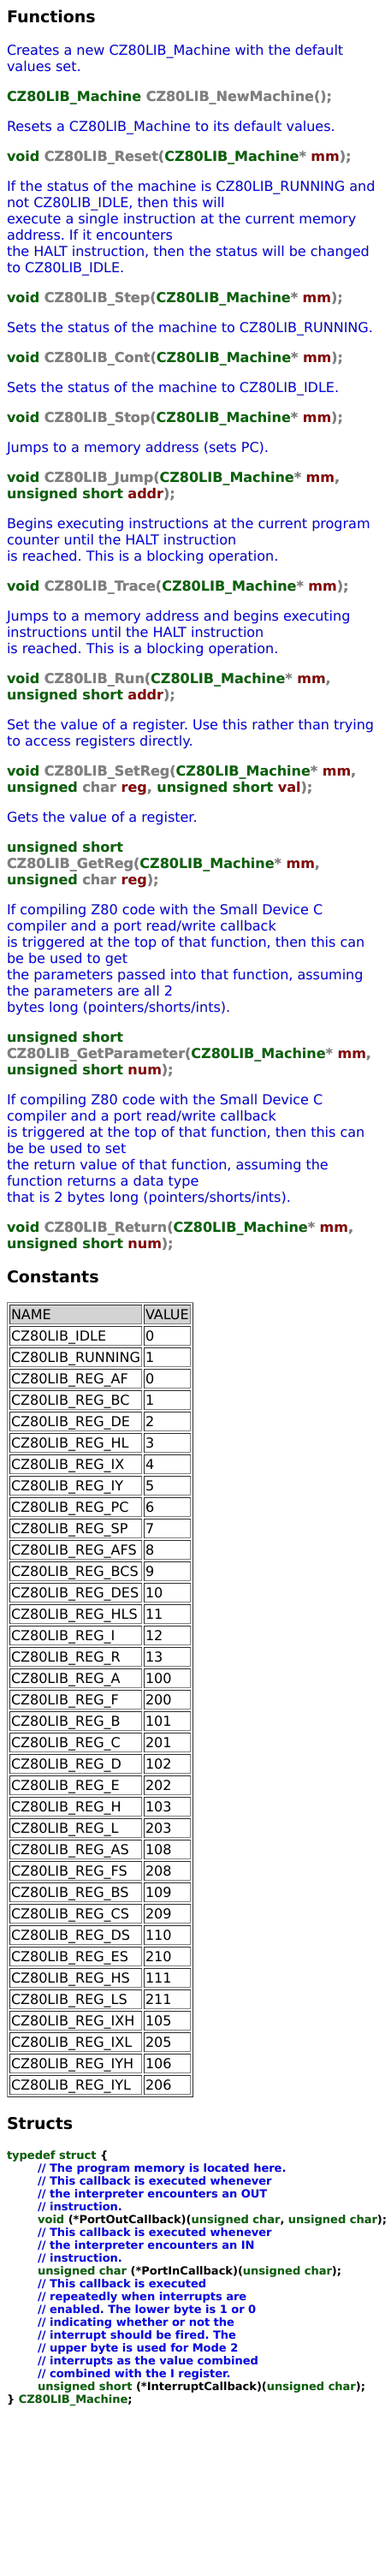
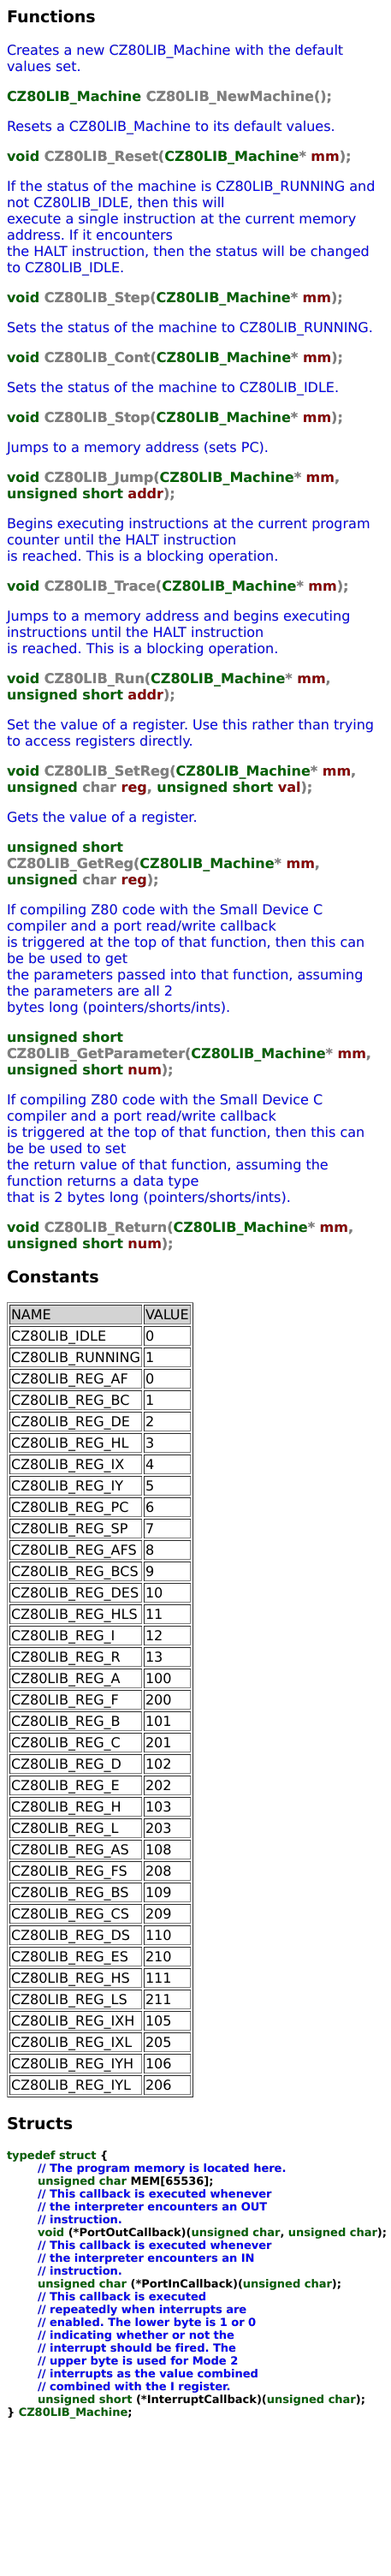
Wed 27 Jan 17:18:31 EST 2021

diff --git a/doc/doc.html b/doc/doc.html
@@ -7,7 +7,7 @@ typedef struct { //!show struct
 	int T0, T1, ST0, ST1, INT_ENABLED, INT_MODE, TABLE, STATUS;
 	int REGS[14];
 	////!show struct The program memory is located here.
-	unsigned char MEM[65536];
+	unsigned char MEM[65536]; //!show struct
 	////!show struct This callback is executed whenever
 	////!show struct the interpreter encounters an OUT
 	////!show struct instruction.

diff --git a/src/CZ80LIB.H b/src/CZ80LIB.H
@@ -4,7 +4,7 @@ typedef struct { //!show struct
 	int T0, T1, ST0, ST1, INT_ENABLED, INT_MODE, TABLE, STATUS;
 	int REGS[14];
 	////!show struct The program memory is located here.
-	unsigned char MEM[65536];
+	unsigned char MEM[65536]; //!show struct
 	////!show struct This callback is executed whenever
 	////!show struct the interpreter encounters an OUT
 	////!show struct instruction.
